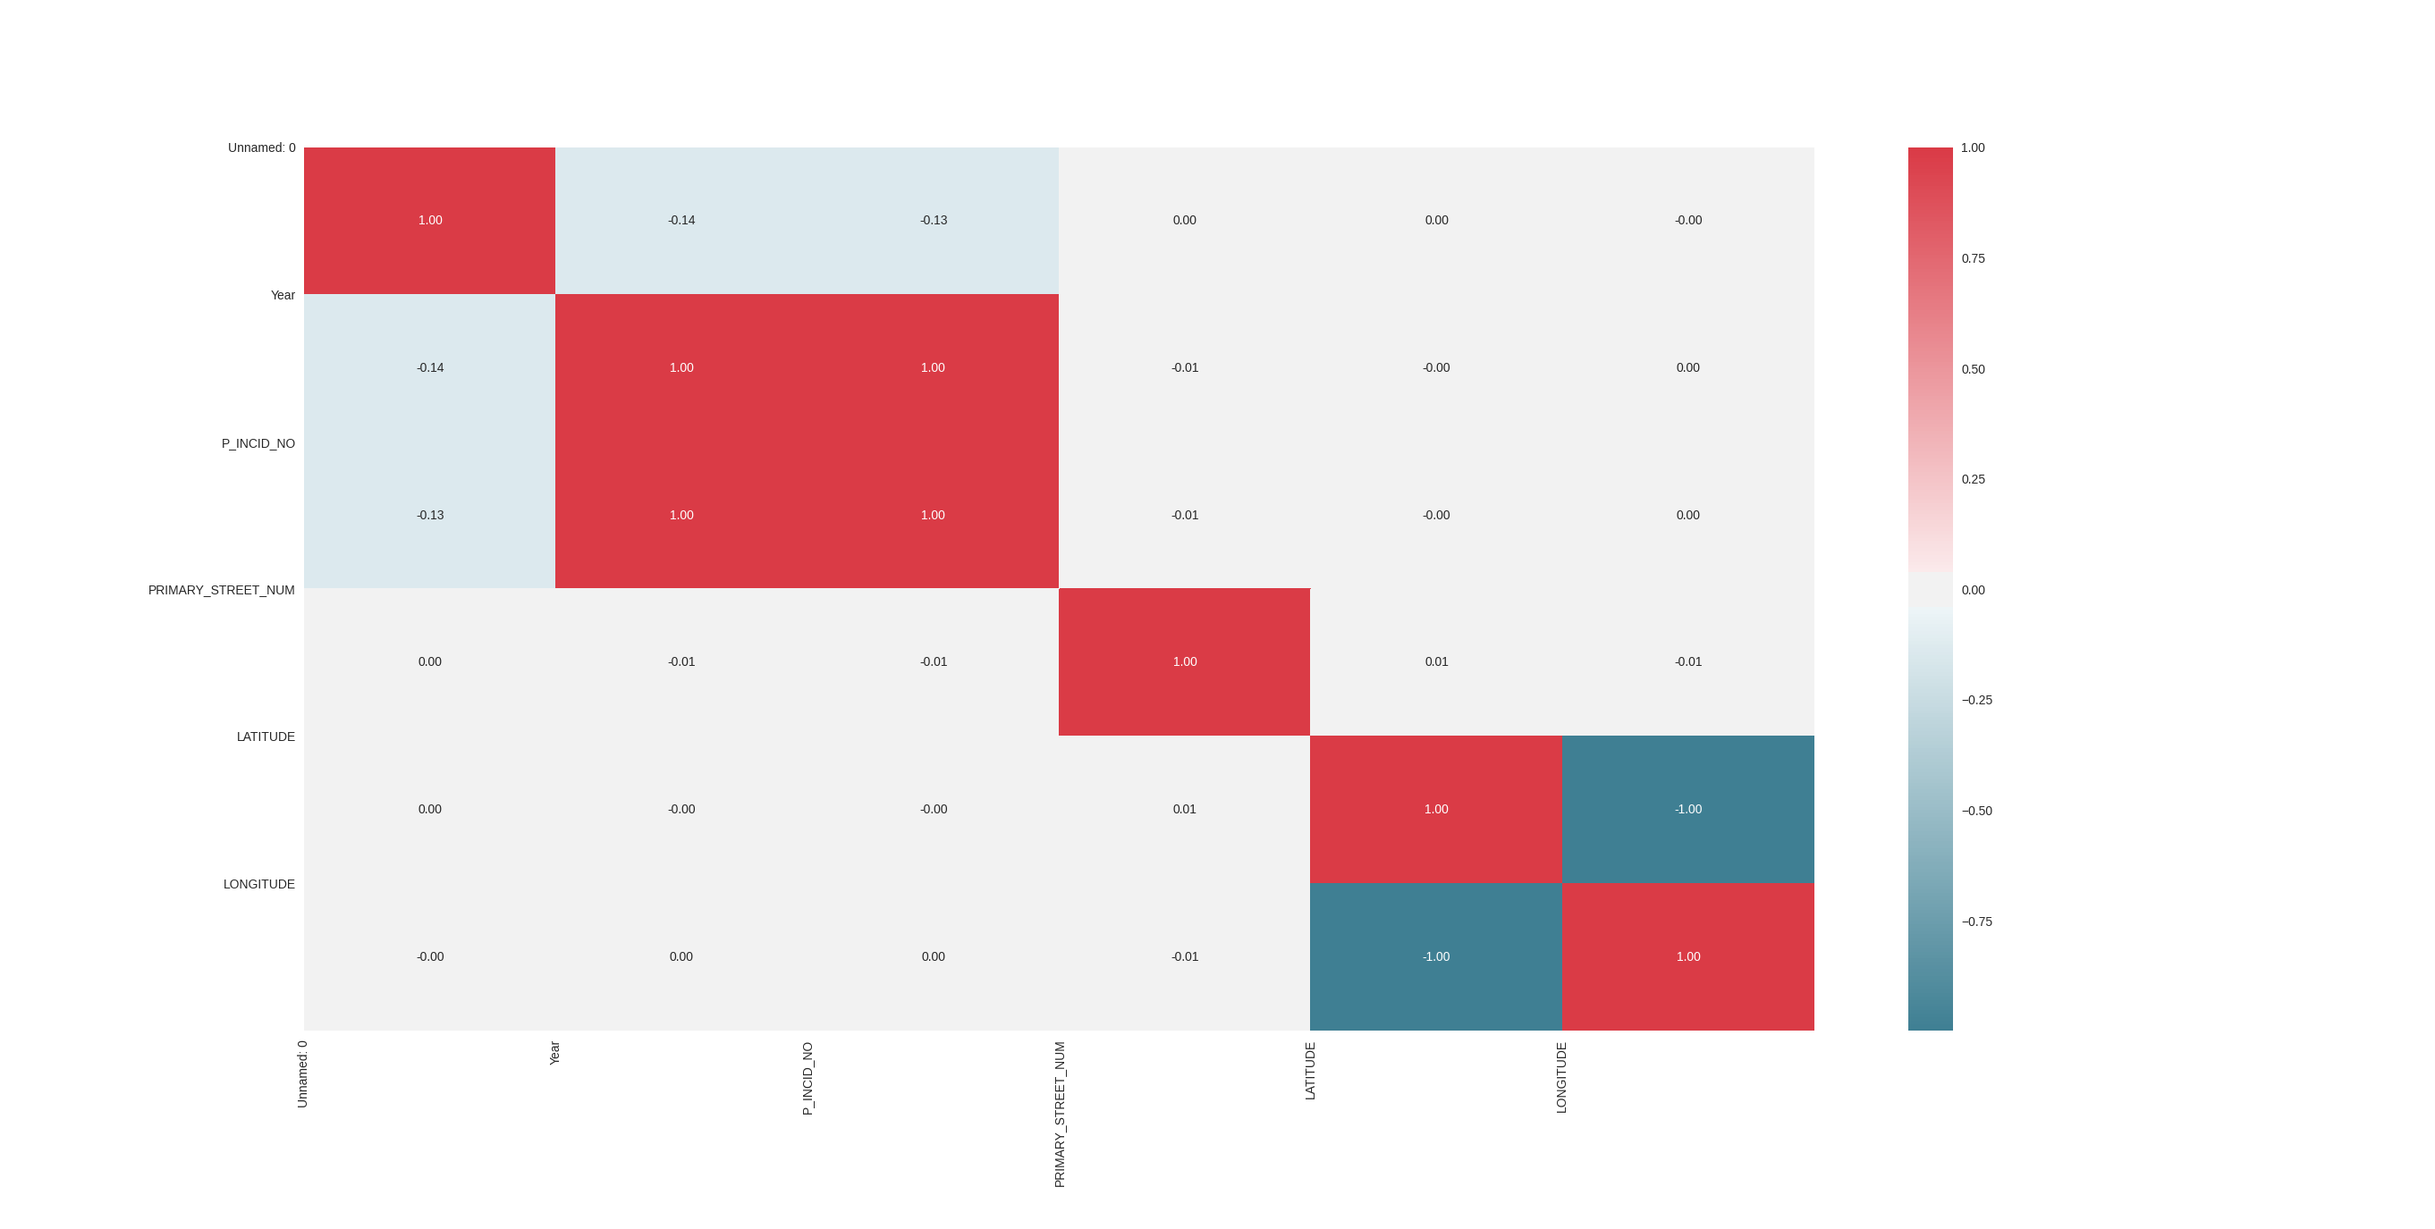
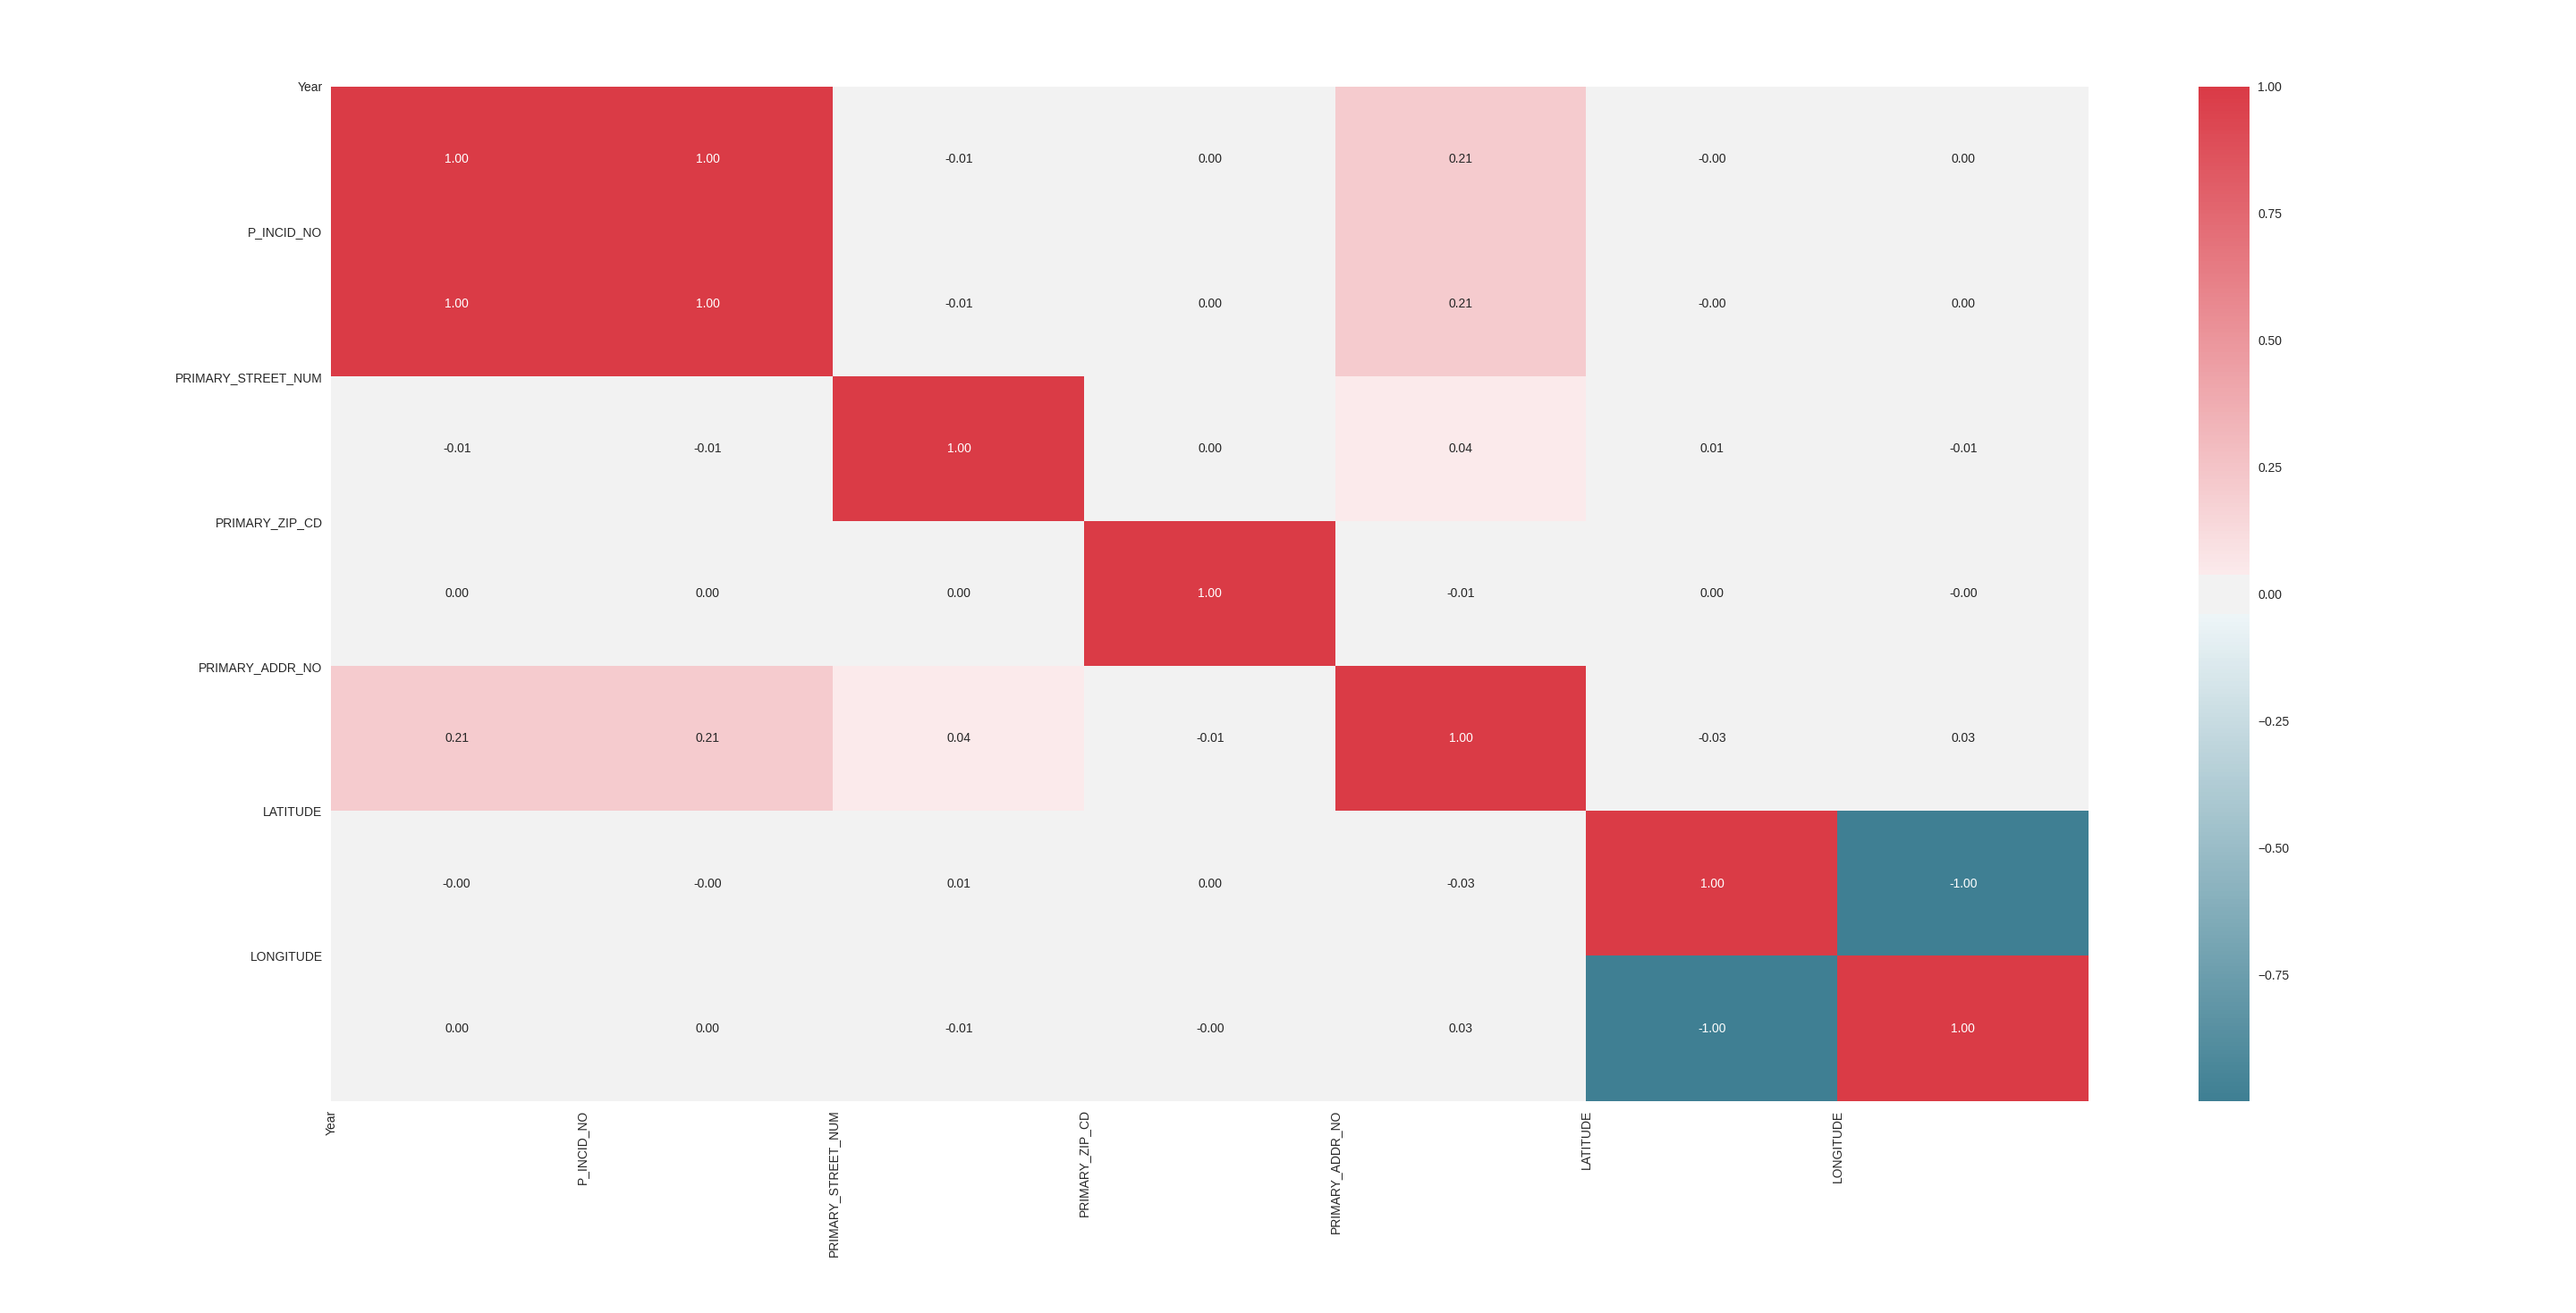
Add more statistics

diff --git a/CS-483_Big-Data-Analytics-Capstone_2020-Spring/code/statistics/all-grouped-crimes-by-hour.py b/CS-483_Big-Data-Analytics-Capstone_2020-Spring/code/statistics/all-grouped-crimes-by-hour.py
@@ -1,0 +1,125 @@
+# Map Code:
+# https://www.kaggle.com/txp142130/utd-crimes-in-chicago-with-choropleth-map
+# 
+# Code and Logic: 
+# CraftingGamerTom (Thomas Rokicki)
+
+df_crime = crimes
+
+
+
+# --------------------------------------------------
+# ----- Read in Crime Types with weighted values
+# --------------------------------------------------
+
+# let's read the data using the Pandas read_csv() function 
+from io import StringIO 
+
+weightedIncidentsString = StringIO("""
+INCIDENT_CODE;INCIDENT_DESC;INCIDENT_WEIGHT;
+23G;Theft of Motor Vehicle Parts;7;
+ZZZ;Non-NIBRS Offense;1;
+23H;All Other Thefts;7;
+40A;Prostitution;5;
+35A;Drug/Narcotic Violations;5;
+240;Motor Vehicle Theft;7;
+23F;Theft from Motor Vehicle;7;
+120;Robbery;7;
+290;Destruction/Damage/Vandalism of Property;7;
+23D;Theft from Building;7;
+13C;Assault - Intimidation;9;
+13A;Aggravated Assault;9;
+220;Burglary/Breaking & Entering;7;
+11D;Forcible Fondling;9;
+26C;Impersonation;3;
+13B;Simple Assault;9;
+23C;Shoplifting;7;
+520;Weapon Law Violation;5;
+90C;Disorderly Conduct;5;
+90Z;All Other Offenses;1;
+26E;Wire Fraud;3;
+90J;Trespass of Real Property;7;
+90D;Driving Under the Influence;5;
+90I;Runaway;2;
+250;Counterfeiting/Forgery;3;
+26B;Credit Card/Automatic Teller Fraud;3;
+90G;Liquor Law Violation;3;
+35B;Drug Equipment Violations;5;
+90F;Family Offenses, Nonviolent;5;
+90N;Resisting Arrest;9;
+200;Arson;7;
+11A;Forcible Rape;9;
+36B;Statutory Rape (Nonforcible Sex Offense);2;
+11B;Forcible Sodomy;9;
+26A;False Pretense/Swindle/Confidence Game;3;
+09A;Murder & Nonnegligent Manslaughter;9;
+23E;Theft from Coin-operated Machine;7;
+280;Stolen Property Offenses;7;
+100;Kidnapping/Abduction;9;
+270;Embezzlement;3;
+90M;Other Agencies (Mental Health);1;
+23B;Purse Snatching;9;
+370;Pornography/Obscene Material;2;
+11C;Sexual Assault with an Object;9;
+36A;Incest (Nonforcible Sex Offense);2;
+90P;Contributing to the Delinquency of a Minor;2;
+23A;Pocket Picking;7;
+90E;Drunkenness;5;
+210;Extortion/Blackmail;3;
+90A;Bad Checks;3;
+39C;Gambling Equipment Violations;3;
+90L;Truancy;2;
+90K;Incorrigible;3;
+VOI;VOI (Added during conversion);9;
+40B;Assisting or Promoting Prostitution;5;
+26F;Identity Theft;3;
+720;Animal Cruelty;5;
+26G;Hacking/Computer Invasion;3;
+39B;Operating/Promoting/Assisting Gambling;3;
+64A;Human Trafficking, Commercial Sex Acts;5;
+64B;Human Trafficking, Involuntary Servitude;5;
+90B;Curfew/Loitering/Vagrancy;2;
+26D;Welfare Fraud;3;
+Zx;Unknown;1;
+""")
+
+weighted_incidents = pd.read_csv(weightedIncidentsString, sep =";") 
+weighted_incidents['INCIDENT_CODE']          		= pd.Categorical(weighted_incidents['INCIDENT_CODE'])
+weighted_incidents['INCIDENT_DESC']          		= pd.Categorical(weighted_incidents['INCIDENT_DESC'])
+
+
+# --------------------------------------------------
+# ----- Read in Crime Group Types
+# --------------------------------------------------
+incidentTypeGroupsString = StringIO("""
+INCIDENT_TYPE_GROUP;INCIDENT_TYPE_WEIGHT;
+Violent Incident;9;
+Property Incident;7;
+Non-Violent Incident;5;
+White-Collar Incident;3;
+Low-Risk Incident;2;
+Other / Unkown Incident;1;
+""")
+
+incident_type_groups = pd.read_csv(incidentTypeGroupsString, sep =";") 
+incident_type_groups['INCIDENT_TYPE_GROUP'] = pd.Categorical(incident_type_groups['INCIDENT_TYPE_GROUP'])
+
+
+# --------------------------------------------------
+# ----- Join group types with the Type weight
+# --------------------------------------------------
+grouped_crimes = pd.merge(incident_type_groups, weighted_incidents[["INCIDENT_CODE","INCIDENT_WEIGHT"]], left_on="INCIDENT_TYPE_WEIGHT", right_on="INCIDENT_WEIGHT", how="left")
+
+# --------------------------------------------------
+# ----- Join incidents on the group types
+# --------------------------------------------------
+grouped_crimes = pd.merge(crimes, grouped_crimes[["INCIDENT_CODE","INCIDENT_TYPE_GROUP"]], left_on="IBR_TYPE", right_on="INCIDENT_CODE", how="left")
+
+# --------------------------------------------------
+# ----- Display Grouped Crimes by Hour
+# --------------------------------------------------
+grouped_crimes.groupby([grouped_crimes['ACTUAL_DTE'].dt.hour,'INCIDENT_TYPE_GROUP',])['P_INCID_NO'].count().unstack().plot(marker='o')
+plt.ylabel('Number of Crimes')
+plt.xlabel('Hours of the day')
+plt.xticks(np.arange(24))
+plt.show()

diff --git a/CS-483_Big-Data-Analytics-Capstone_2020-Spring/code/statistics/heatmap-of-ranked-correlations.py b/CS-483_Big-Data-Analytics-Capstone_2020-Spring/code/statistics/heatmap-of-ranked-correlations.py
@@ -1,0 +1,29 @@
+df = dailyRankedCrimes
+#df = yearlyRankedCrimes
+
+def heatMap(df):
+    #Create Correlation df
+    corr = df.corr()
+    #Plot figsize
+    fig, ax = plt.subplots(figsize=(10, 10))
+    #Generate Color Map, red & blue
+    colormap = sns.diverging_palette(220, 10, as_cmap=True)
+    #Generate Heat Map, allow annotations and place floats in map
+    sns.heatmap(corr, cmap=colormap, annot=True, fmt=".2f")
+    #Apply xticks
+    plt.xticks(range(len(corr.columns)), corr.columns);
+    #Apply yticks
+    plt.yticks(range(len(corr.columns)), corr.columns)
+    #show plot
+    plt.show()
+
+##find missing values
+##plt.figure(figsize=(8,6))
+##sns.heatmap(df.isnull(), cbar = False)
+
+df = df.dropna(); ## drop rows with missing data
+
+#x = df.sample(30000) ##sampling a part of the dataset
+#heatMap(x) ## correlation between variables
+
+heatMap(df) ## correlation between variables

diff --git a/CS-483_Big-Data-Analytics-Capstone_2020-Spring/code/statistics/crimes-committed-at-certain-times.py b/CS-483_Big-Data-Analytics-Capstone_2020-Spring/code/statistics/crimes-committed-at-certain-times.py
@@ -1,0 +1,25 @@
+# https://www.kaggle.com/coeyoner/chicago-crime-visualization
+
+x = crimes
+x = x.set_index(['ACTUAL_DTE'])
+
+color = (0.2, 0.4, 0.6, 0.6)
+
+bars = x['IBR_TYPE_DESC'].unique()
+bars = bars.sort_values(inplace=True)
+
+x[x.index.hour == 0]['IBR_TYPE_DESC'].value_counts(normalize=True).plot.bar(color=color)
+plt.title("Crimes commited around 24:00")
+plt.show()
+
+x[x.index.hour == 3]['IBR_TYPE_DESC'].value_counts(normalize=True).plot.bar(color=color)
+plt.title("Crimes commited around 03:00")
+plt.show()
+
+x[x.index.hour == 12]['IBR_TYPE_DESC'].value_counts(normalize=True).plot.bar(color=color)
+plt.title("Crimes commited around 12:00")
+plt.show()
+
+x[x.index.hour == 19]['IBR_TYPE_DESC'].value_counts(normalize=True).plot.bar(color=color)
+plt.title("Crimes commited around 19:00")
+plt.show()

diff --git a/CS-483_Big-Data-Analytics-Capstone_2020-Spring/code/statistics/crimes-by-day-of-the-week.py b/CS-483_Big-Data-Analytics-Capstone_2020-Spring/code/statistics/crimes-by-day-of-the-week.py
@@ -1,0 +1,11 @@
+# https://www.kaggle.com/coeyoner/chicago-crime-visualization
+
+color = (0.2, 0.4, 0.6, 0.6)
+
+days = ['Monday','Tuesday','Wednesday',  'Thursday', 'Friday', 'Saturday', 'Sunday']
+x.groupby([x.index.dayofweek]).size().plot(kind='barh', color=color)
+plt.ylabel('Day of week')
+plt.yticks(np.arange(7), days)
+plt.xlabel('Number of crimes')
+plt.title('Number of crimes by day of week')
+plt.show()

diff --git a/CS-483_Big-Data-Analytics-Capstone_2020-Spring/code/statistics/all-crimes-by-hour.py b/CS-483_Big-Data-Analytics-Capstone_2020-Spring/code/statistics/all-crimes-by-hour.py
@@ -1,0 +1,9 @@
+# https://www.kaggle.com/txp142130/utd-crimes-in-chicago-with-choropleth-map
+
+df_crime = crimes
+
+df_crime.groupby([df_crime['ACTUAL_DTE'].dt.hour,'IBR_TYPE_DESC',])['P_INCID_NO'].count().unstack().plot(marker='o')
+plt.ylabel('Number of Crimes')
+plt.xlabel('Hours of the day')
+plt.xticks(np.arange(24))
+plt.show()

diff --git a/CS-483_Big-Data-Analytics-Capstone_2020-Spring/code/statistics/crimes-by-month-of-the-year.py b/CS-483_Big-Data-Analytics-Capstone_2020-Spring/code/statistics/crimes-by-month-of-the-year.py
@@ -1,0 +1,9 @@
+# https://www.kaggle.com/coeyoner/chicago-crime-visualization
+
+color = (0.2, 0.4, 0.6, 0.6)
+
+x.groupby([x.index.month]).size().plot(kind='barh', color=color)
+plt.ylabel('Month')
+plt.xlabel('Number of crimes')
+plt.title('Number of crimes by month of year')
+plt.show()

diff --git a/CS-483_Big-Data-Analytics-Capstone_2020-Spring/code/statistics/crimes-by-hour-of-the-day.py b/CS-483_Big-Data-Analytics-Capstone_2020-Spring/code/statistics/crimes-by-hour-of-the-day.py
@@ -1,0 +1,9 @@
+# https://www.kaggle.com/coeyoner/chicago-crime-visualization
+
+color = (0.2, 0.4, 0.6, 0.6)
+
+x.groupby([x.index.hour]).size().plot(kind='barh', color=color)
+plt.ylabel('Hour')
+plt.xlabel('Number of crimes')
+plt.title('Number of crimes by hour of day')
+plt.show()
